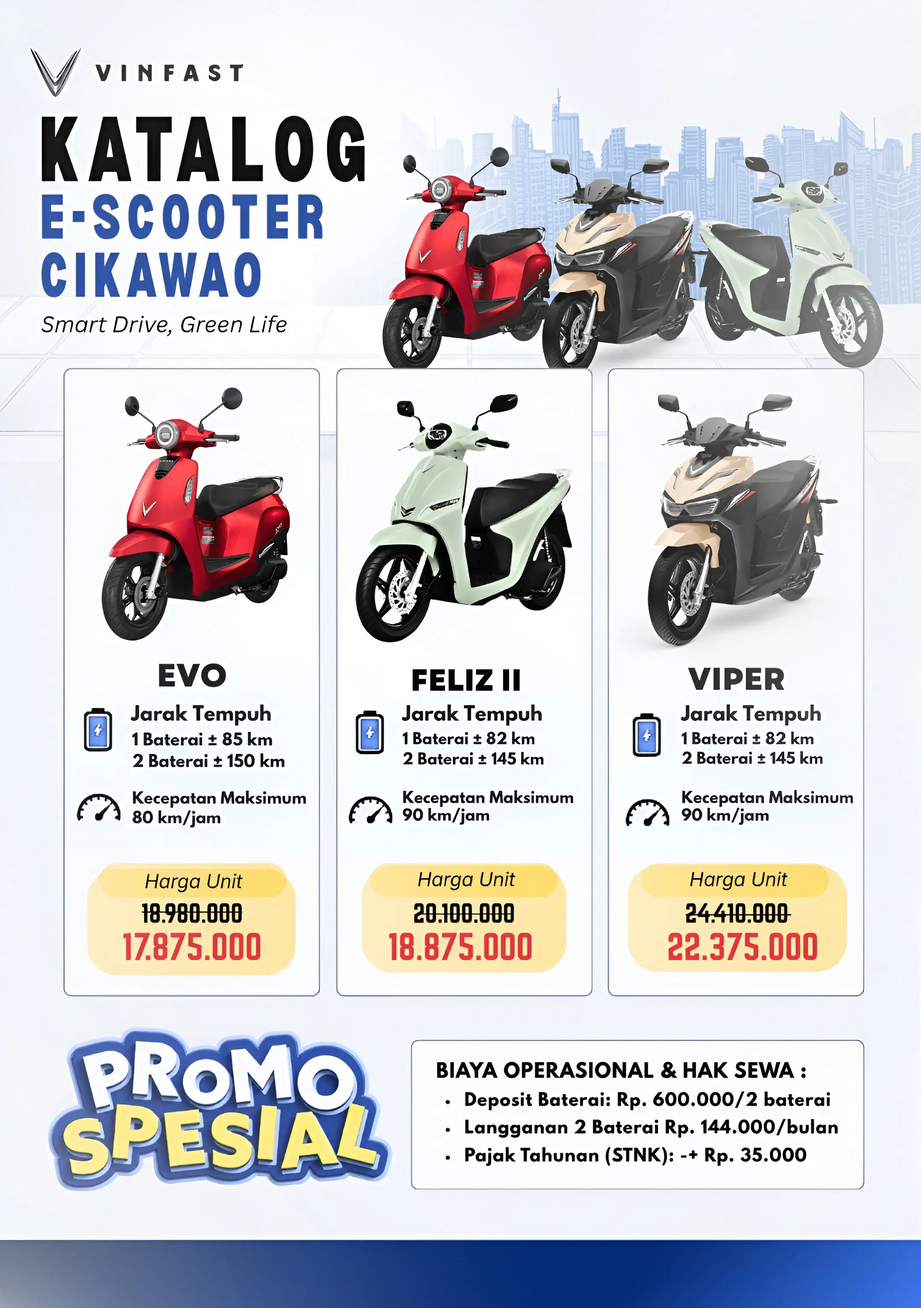
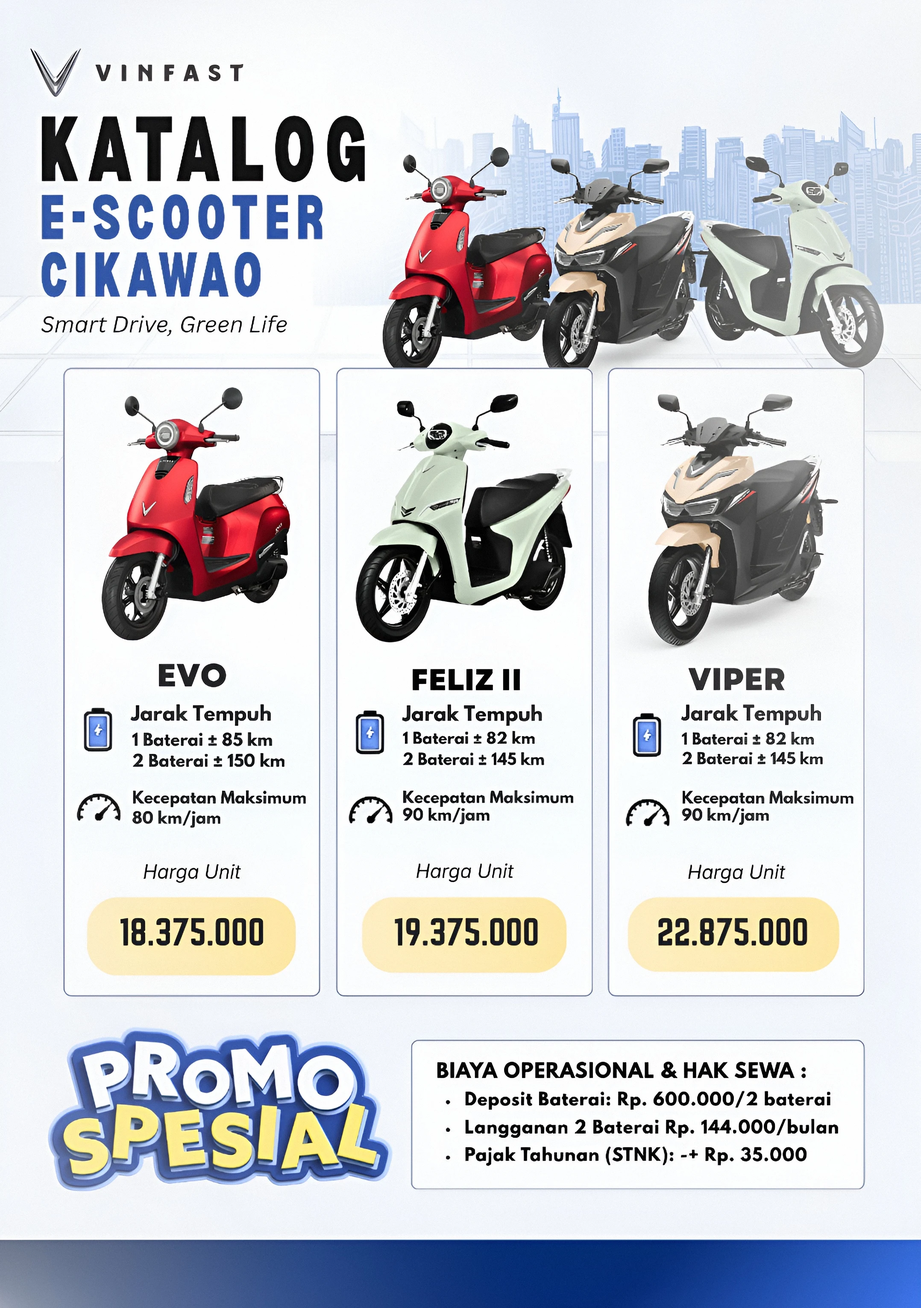
fix: update harga semua model + replace gambar hero & carousel

diff --git a/src/data/products.js b/src/data/products.js
@@ -4,7 +4,7 @@ export const products = [
     name: 'VinFast Evo',
     tagline: 'Urban Companion',
     taglineDesc: 'Mudah & Praktis untuk Aktivitas Sehari-hari',
-    price: 'Rp 17.875.000',
+    price: 'Rp 18.375.000',
     colors: ['Merah', 'Putih', 'Hitam', 'Olive'],
     images: ['/images/evo/product.png', '/images/evo/page-1.png', '/images/evo/page-2.png'],
     gallery: [
@@ -40,7 +40,7 @@ export const products = [
     name: 'VinFast Feliz',
     tagline: 'Smart Rider',
     taglineDesc: 'Cerdas & Stylish untuk Generasi Muda',
-    price: 'Rp 18.875.000',
+    price: 'Rp 19.375.000',
     colors: ['Putih', 'Olive', 'Merah', 'Hitam'],
     images: ['/images/feliz/product.png', '/images/feliz/page-1.png', '/images/feliz/page-2.png'],
     gallery: [
@@ -77,7 +77,7 @@ export const products = [
     name: 'VinFast Viper',
     tagline: 'Performance Edge',
     taglineDesc: 'Performa Tinggi untuk Pengendara Berani',
-    price: 'Rp 22.375.000',
+    price: 'Rp 22.875.000',
     colors: ['Hitam', 'Putih', 'Abu-abu', 'Merah-Hitam'],
     images: ['/images/viper/product.png', '/images/viper/page-1.png', '/images/viper/page-2.png'],
     gallery: [

diff --git a/PROGRESS.md b/PROGRESS.md
@@ -239,4 +239,4 @@ Semua gambar diekstrak dari PDF pada **300 DPI** dengan auto-trim (ImageMagick `
 
 ---
 
-*Dokumen terakhir diperbarui: 17 September 2026*
+*Dokumen terakhir diperbarui: 18 September 2026*
